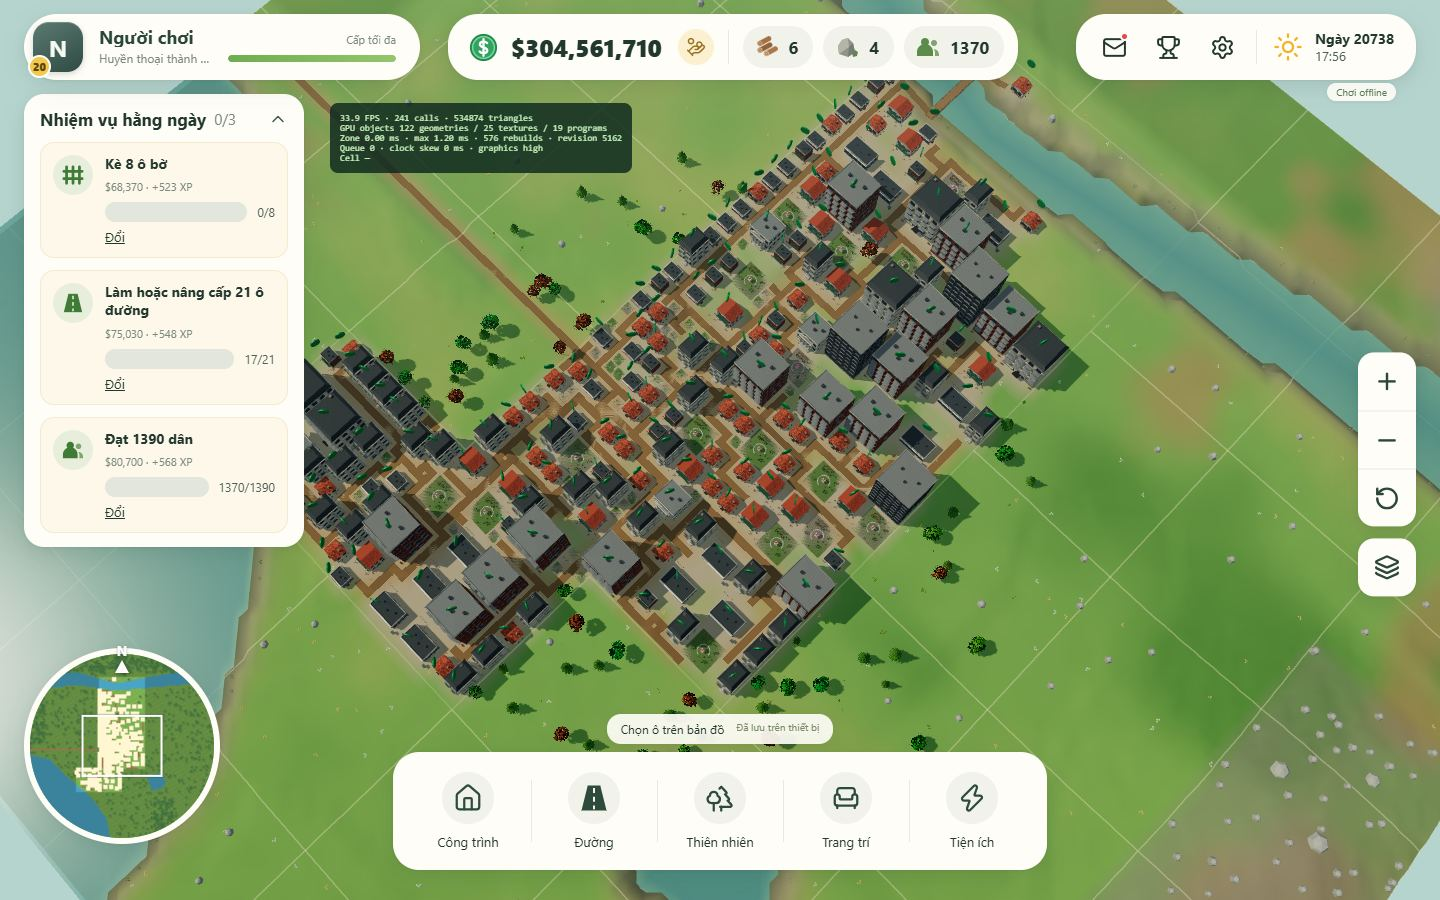
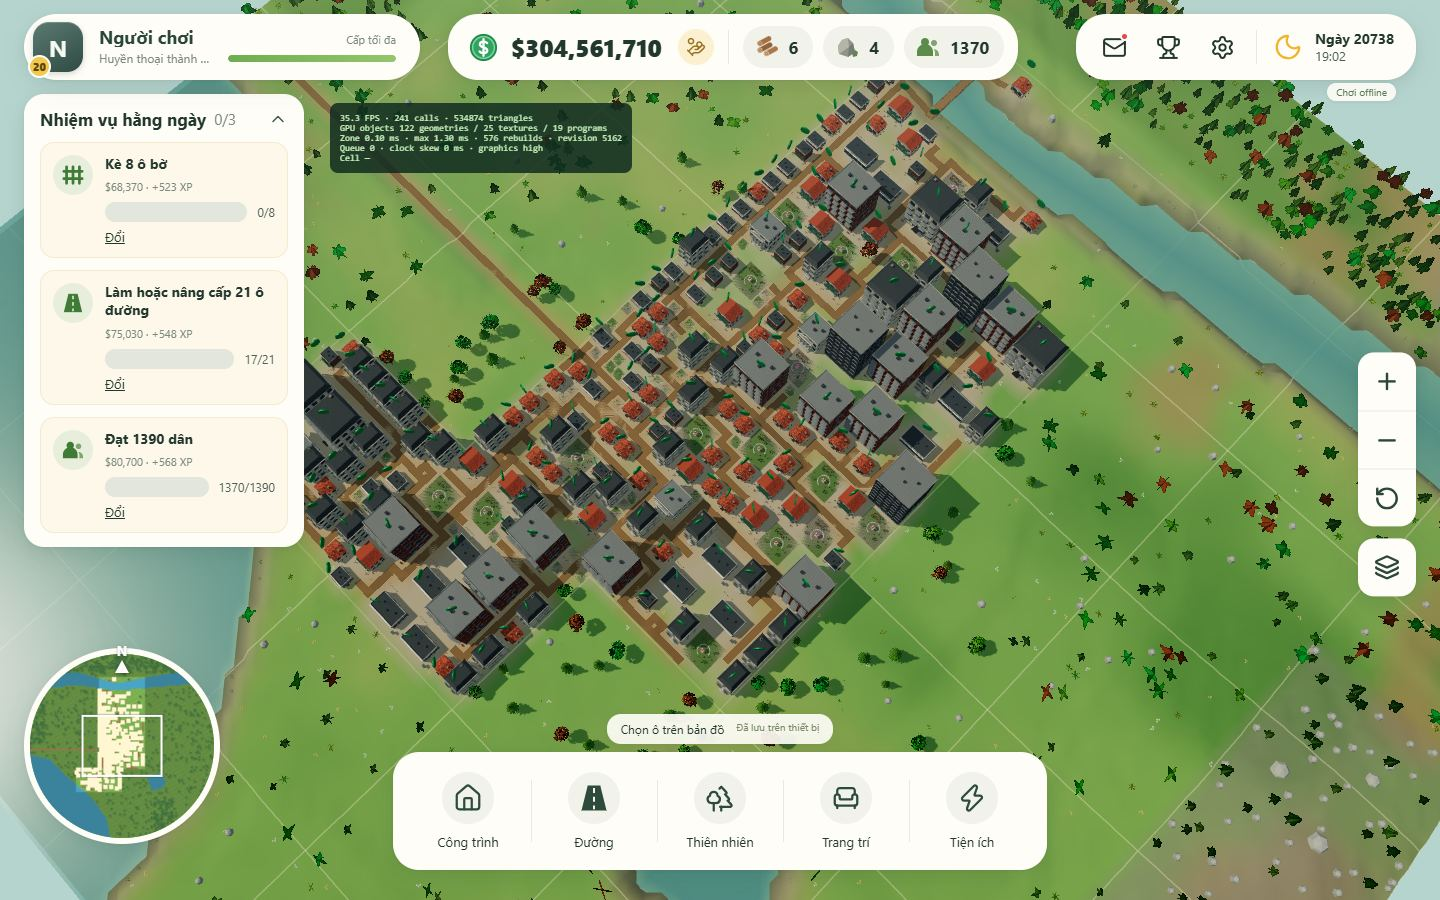
docs(d030): corrected report, far-LOD evidence

diff --git a/docs/reports/D030-trees.md b/docs/reports/D030-trees.md
@@ -143,7 +143,21 @@ Kiểm tra bằng mắt (mỗi kết luận kèm ảnh trong `docs/evidence/g4/t
 - **Đơn định**: capture billboard dùng Chrome + SwiftShader — nếu nâng Chrome lớn có thể lệch pixel → `--check`
   sẽ bắt và chỉ cần chạy lại import để làm mới.
 
-## 10. Commit và deploy nội bộ
+## 11. Commit và deploy nội bộ
+
+## 10. Sửa lỗi mức xa
+
+Nguyên nhân đã xác định: `captureBillboards` chỉ truyền `margin` trong khi `PAGE_JS` đòi `elevationDeg`, làm camera nhận `NaN` và sinh atlas trong suốt. Đã sửa bằng cách truyền nguyên `PARAMETERS.capture`, validate input hợp lệ, bake lại 12 far GLB và thêm cổng alpha coverage 10–80%, ít nhất hai màu, PNG ≥8 KB. `--check` trước đây không phát hiện vì chỉ tái tạo ảnh trống một cách định tính.
+
+| Nhóm | Far trước | Far sau | Alpha tile (min–max) |
+|---|---:|---:|---:|
+| deciduous (4) | ~2,9 KB | 81–101 KB | 14,8–22,2% |
+| conifer (4) | ~2,9 KB | 86–99 KB | 10,5–12,8% |
+| bush (4) | ~2,9 KB | 279–316 KB | 32,2–41,1% |
+
+Mọi asset và tile đều PASS cổng alpha; far vẫn 6 tam giác. Hook `?debug=1` có `__debug.treeLod({ nearCount: 0 })`, `__debug.envVisible(false)`. Script QA lưu ảnh và `report.json` tại `docs/evidence/g4/trees/lod-qa/`; chỉ số far/near phải ≥0,6 ở hai map và hai góc.
+
+Nhận định cũ về KB far, chuyển LOD không giật, billboard nghiêng và “chấm cây placeholder” đã sửa trong mục này; ảnh so sánh sau sửa được sinh lại bằng `tree-shots.mjs`.
 
 1. `8e702ef` `feat(d030): tree import script, config`
 2. `5a0c873` `feat(d030): tree/bush GLBs, manifest and credits`

diff --git a/docs/DECISIONS.md b/docs/DECISIONS.md
@@ -320,6 +320,8 @@ mesh/material GLB with POSITION+NORMAL+COLOR_0 — one draw call per building.
 
 ## D030 — 2026-10-11 — All trees and bushes replaced from the map/tree pack, with near/far LODs
 
+Far billboard assets require alpha coverage of 10–80% per captured tile (alpha ≥128, at least two distinct colors) and PNG atlas size ≥8 KB. Full-world far/near tree coverage ≥0.6 is a mandatory QC gate for every billboard asset.
+
 From the user's D030 brief. Source: `map/tree/` (owner-supplied, NOT committed): `stylized_tree.glb` (CC-BY-4.0,
 Aki), `fur_tree.glb` (CC-BY-SA-4.0, Harri Jones), `small_bush.glb` (CC-BY-4.0, yanix); `tree_animate.glb` NOT used.
 `scripts/import-trees.mjs` (deterministic, `--check` byte-compares outputs, skips when the pack is absent) bakes
